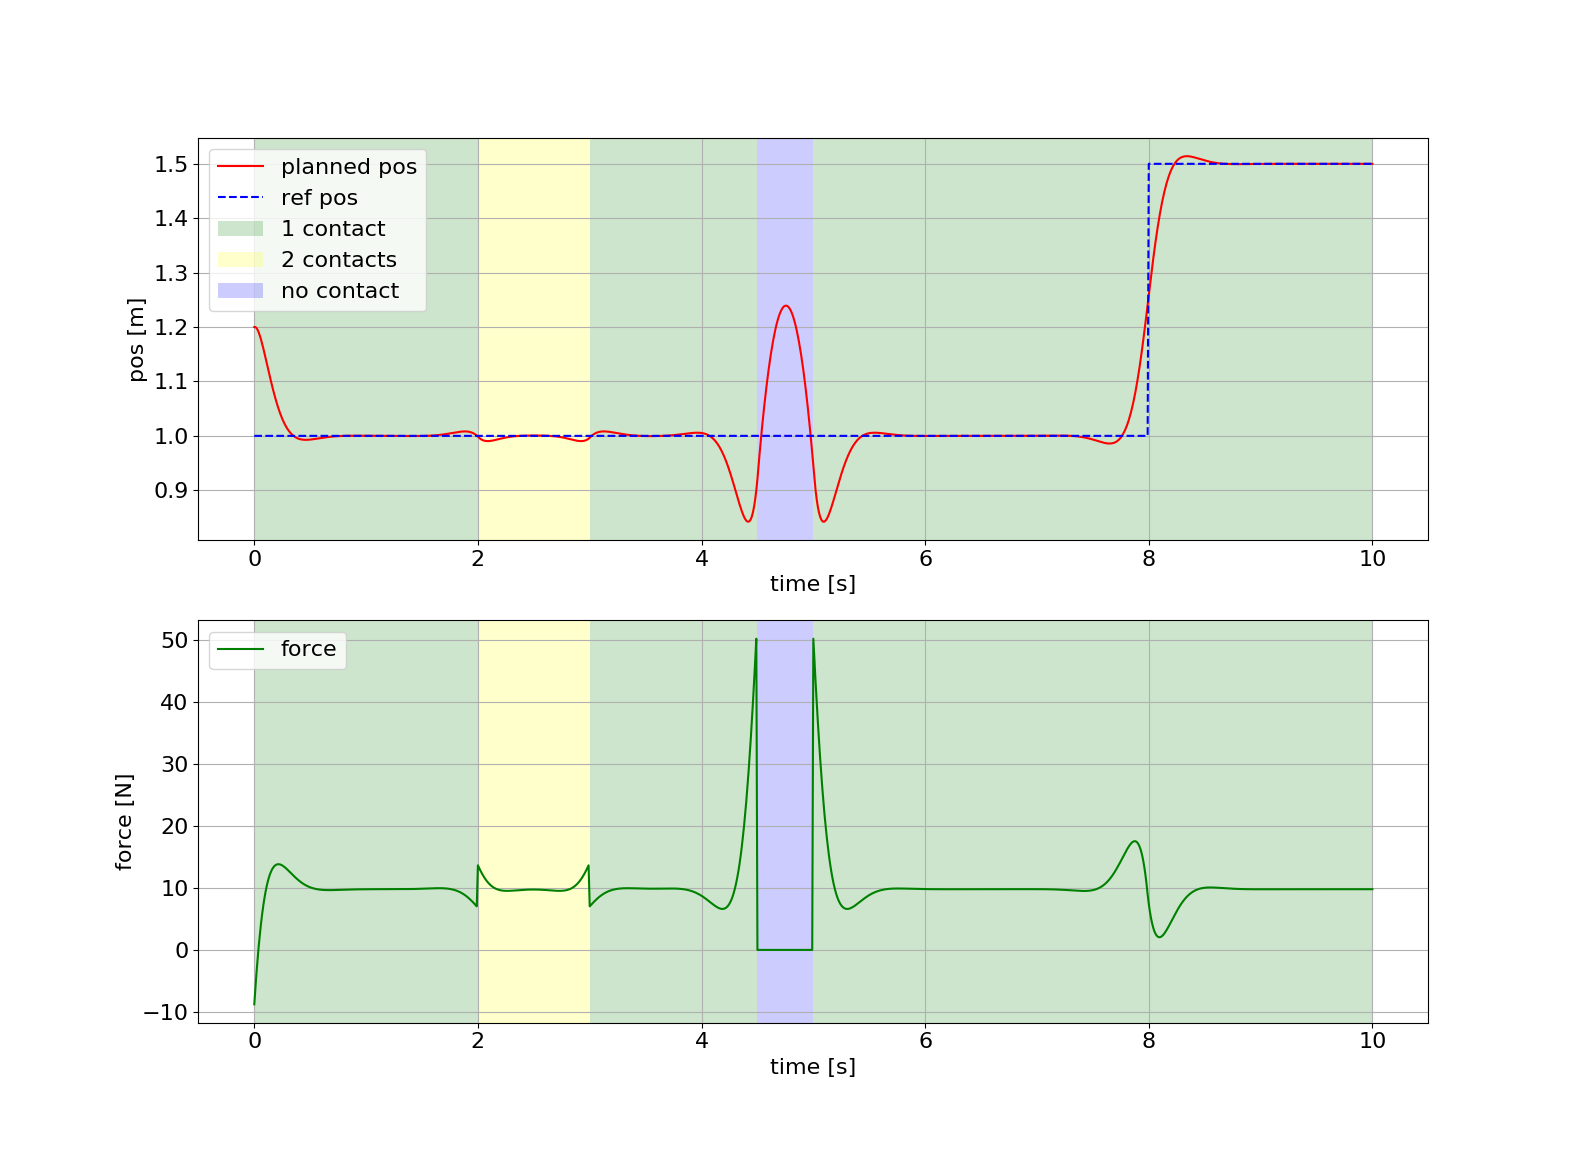
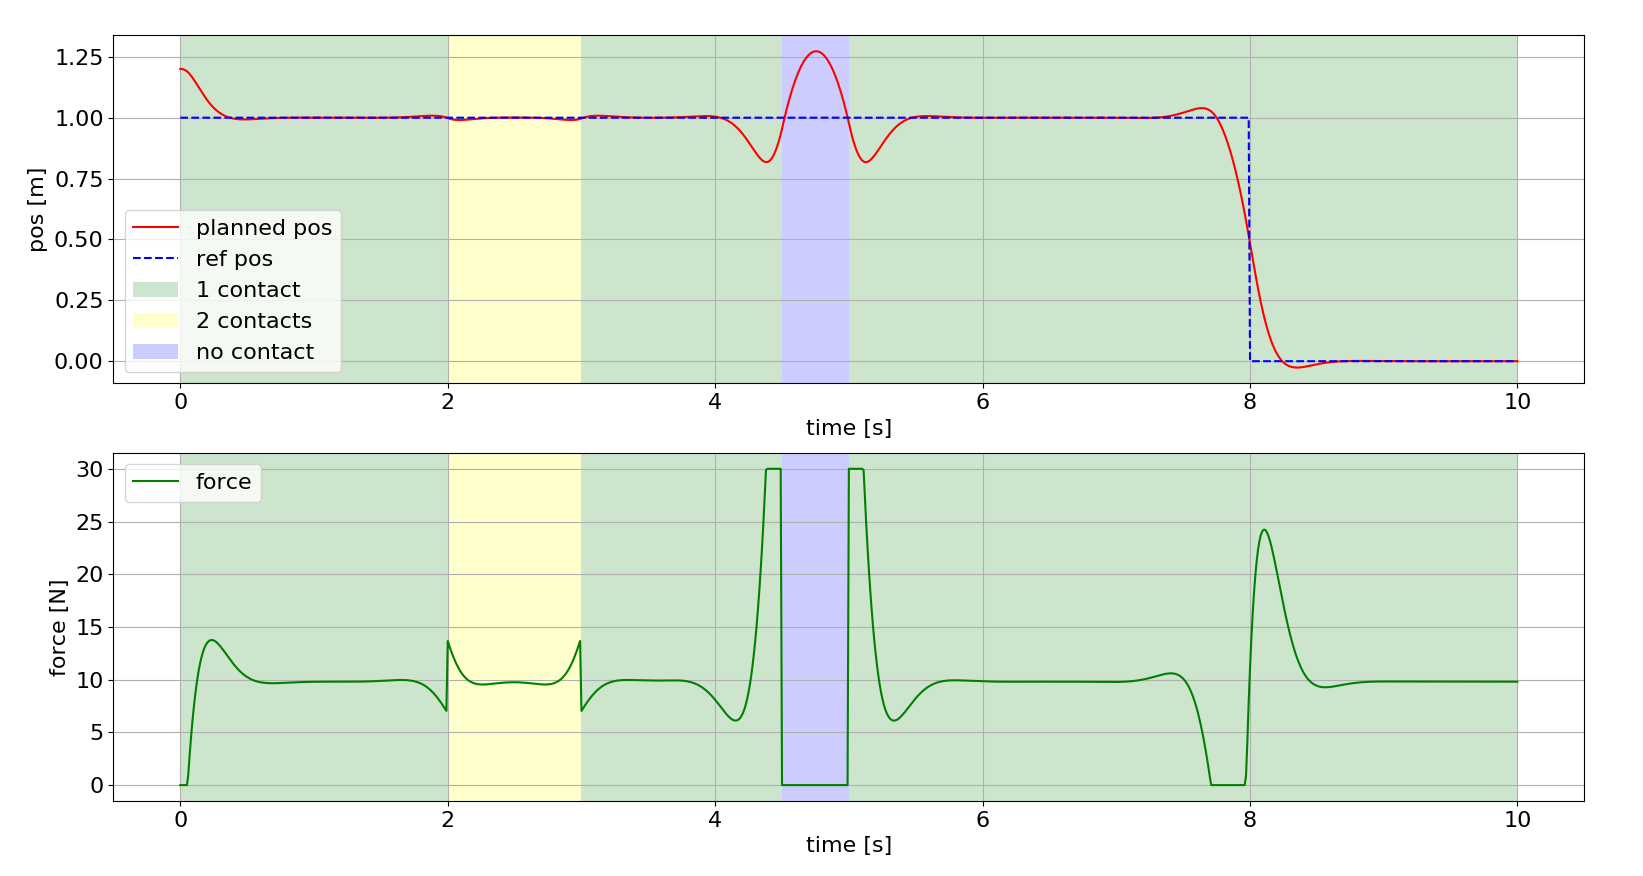
test DDP with constraint

diff --git a/nmpc_ddp/tests/src/TestDDPVerticalMotion.cpp b/nmpc_ddp/tests/src/TestDDPVerticalMotion.cpp
@@ -231,7 +231,7 @@ protected:
   bool use_smooth_abs_ = false;
 };
 
-TEST(TestDDPVerticalMotion, TestCase1)
+void test(bool with_constraint)
 {
   double dt = 0.01; // [sec]
   double horizon_duration = 3.0; // [sec]
@@ -249,13 +249,21 @@ TEST(TestDDPVerticalMotion, TestCase1)
     }
     else
     {
-      return 1.5; // [m]
+      return 0.0; // [m]
     }
   };
   auto ddp_problem = std::make_shared<DDPProblemVerticalMotion>(dt, ref_pos_func);
 
   // Instantiate solver
   auto ddp_solver = std::make_shared<nmpc_ddp::DDPSolver<2, Eigen::Dynamic>>(ddp_problem);
+  ddp_solver->setInputLimitsFunc([&](double t) -> std::array<Eigen::VectorXd, 2> {
+    std::array<Eigen::VectorXd, 2> limits;
+    int input_dim = ddp_problem->inputDim(t);
+    limits[0].setConstant(input_dim, 0.0);
+    limits[1].setConstant(input_dim, 30.0);
+    return limits;
+  });
+  ddp_solver->config().with_input_constraint = with_constraint;
   ddp_solver->config().horizon_steps = horizon_steps;
   ddp_solver->config().initial_lambda = 1e-6;
 
@@ -283,6 +291,7 @@ TEST(TestDDPVerticalMotion, TestCase1)
       first_iter = false;
       ddp_solver->dumpTraceDataList("/tmp/TestDDPVerticalMotionTraceData.txt");
     }
+    ddp_solver->config().max_iter = 3; // Set max_iter from second loop iteration
 
     // Check pos
     double planned_pos = ddp_solver->controlData().x_list[0][0];
@@ -320,6 +329,16 @@ TEST(TestDDPVerticalMotion, TestCase1)
             << "  set key autotitle columnhead\n"
             << "  set key noenhanced\n"
             << "  plot \"" << file_path << "\" u 1:2 w lp, \"\" u 1:5 w l lw 3\n";
+}
+
+TEST(TestDDPVerticalMotion, WithConstraint)
+{
+  test(true);
+}
+
+TEST(TestDDPVerticalMotion, WithoutConstraint)
+{
+  test(false);
 }
 
 int main(int argc, char ** argv)

diff --git a/nmpc_ddp/include/nmpc_ddp/DDPSolver.hpp b/nmpc_ddp/include/nmpc_ddp/DDPSolver.hpp
@@ -252,7 +252,11 @@ int DDPSolver<StateDim, InputDim>::procOnce(int iter)
       cost_update_ratio = cost_update_actual / cost_update_expected;
       if(cost_update_expected < 0)
       {
-        std::cout << "[DDP/Forward] Value is not expected to decrease." << std::endl;
+        if((!config_.with_input_constraint && config_.print_level >= 0)
+           || (config_.with_input_constraint && config_.print_level >= 2))
+        {
+          std::cout << "[DDP/Forward] Value is not expected to decrease." << std::endl;
+        }
         cost_update_ratio = (cost_update_actual >= 0 ? 1 : -1);
       }
       if(cost_update_ratio > config_.cost_update_ratio_thre)

diff --git a/nmpc_ddp/tests/scripts/plotTestDDPVerticalMotion.py b/nmpc_ddp/tests/scripts/plotTestDDPVerticalMotion.py
@@ -41,7 +41,7 @@ class PlotTestDDPVerticalMotion(object):
         ax.set_xlabel("time [s]")
         ax.set_ylabel("pos [m]")
         ax.grid()
-        ax.legend(loc="upper left")
+        ax.legend(loc="lower left")
 
         ax = fig.add_subplot(212)
         ax.plot(self.result_data_list["time"], self.result_data_list["force"],

diff --git a/nmpc_ddp/README.md b/nmpc_ddp/README.md
@@ -10,6 +10,7 @@ Non-linear model predictive control (NMPC) with differential dynamic drogramming
 - C++ header-only library
 - Treats state and control input dimensions as template parameters
 - Supports time-varying control input dimensions
+- Supports constrained control input
 
 ## Install
 See [here](https://isri-aist.github.io/NMPC/doc/Install).
@@ -38,8 +39,9 @@ $ rosrun nmpc_ddp plotTestDDPBipedal.py
 Controlling vertical motion with time-variant number of contacts (including floating phase).
 System is linear and time-variant.
 The dimension of the control input changes (there are even time steps with an empty control input).
+The upper and lower limits are imposed on the control input.
 ```bash
-$ rosrun nmpc_ddp TestDDPVerticalMotion
+$ rosrun nmpc_ddp TestDDPVerticalMotion --gtest_filter=*.WithConstraint
 $ rosrun nmpc_ddp plotTestDDPVerticalMotion.py
 ```
 ![TestDDPVerticalMotion](doc/images/TestDDPVerticalMotion.png)
